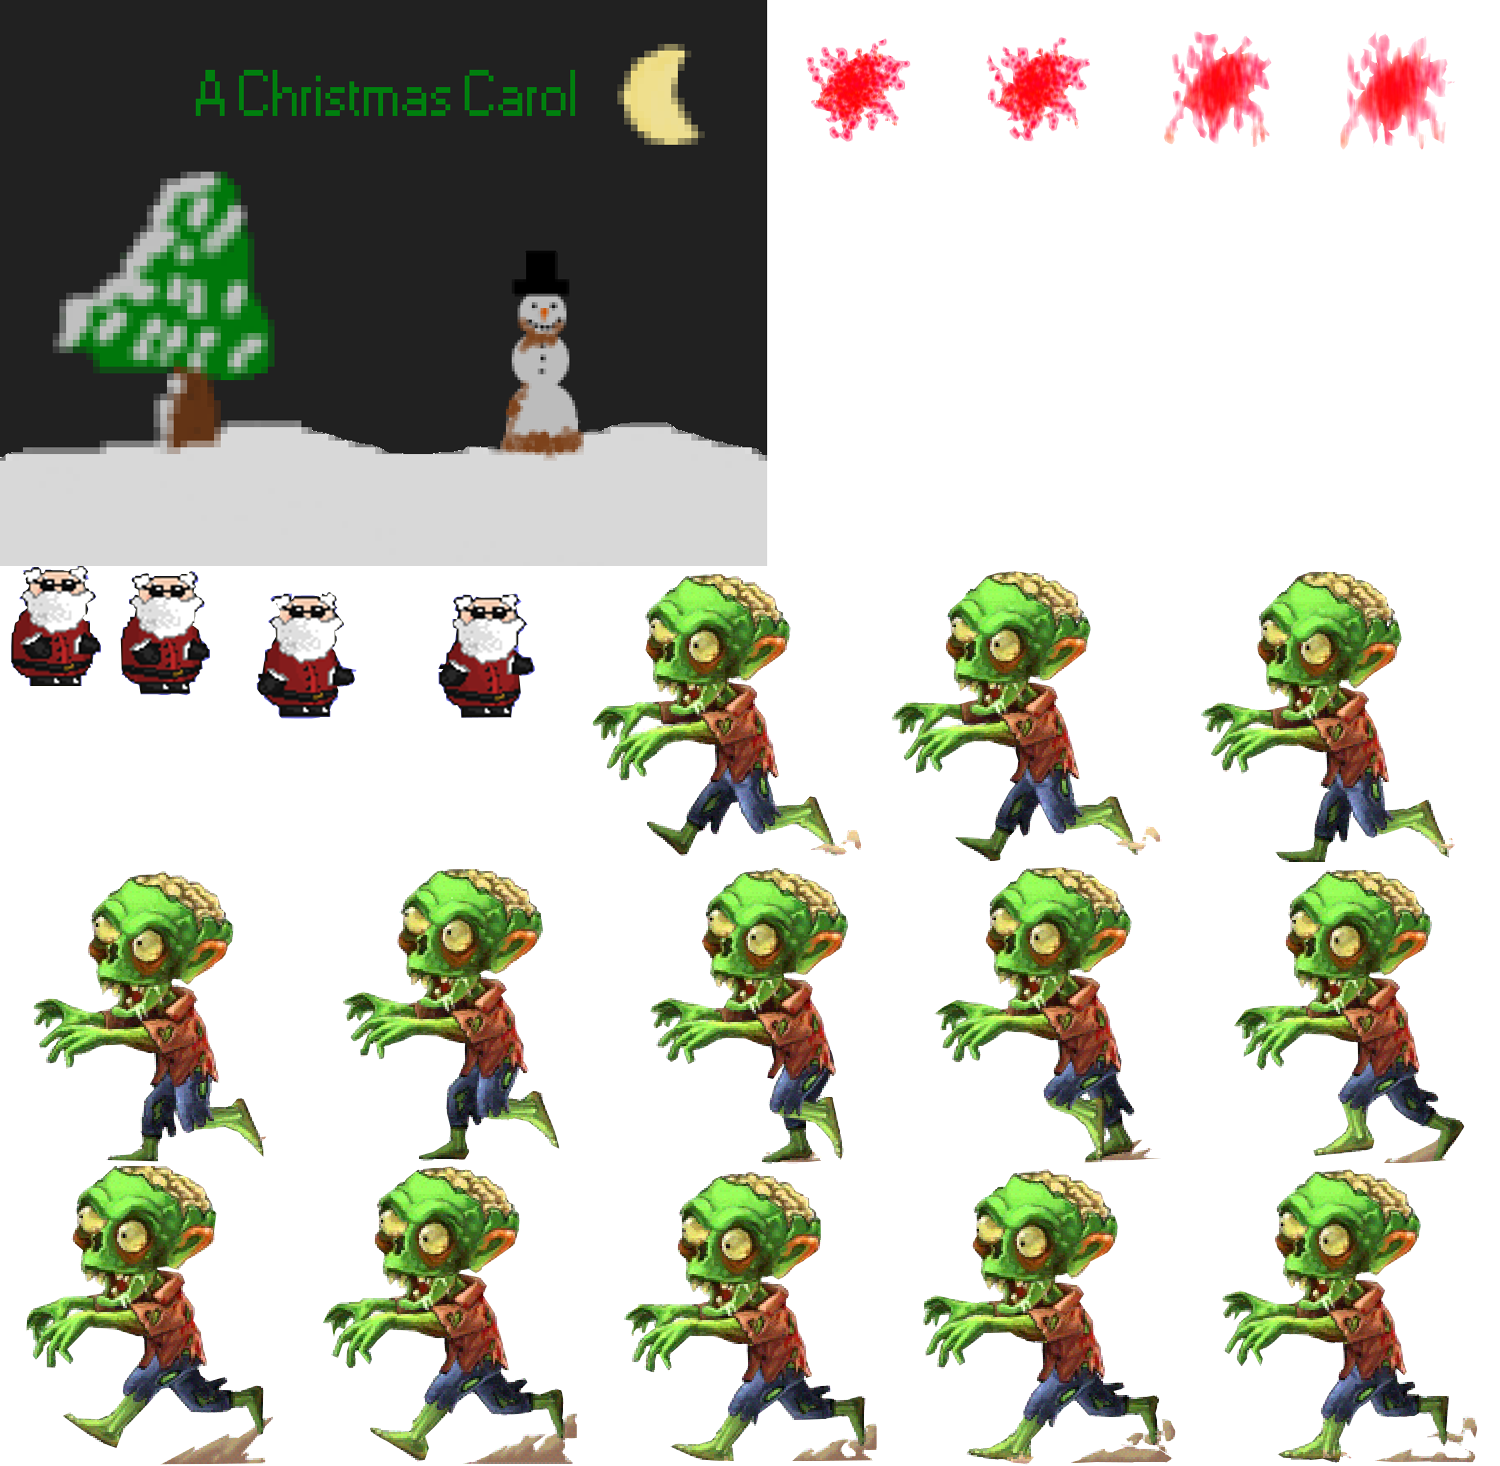
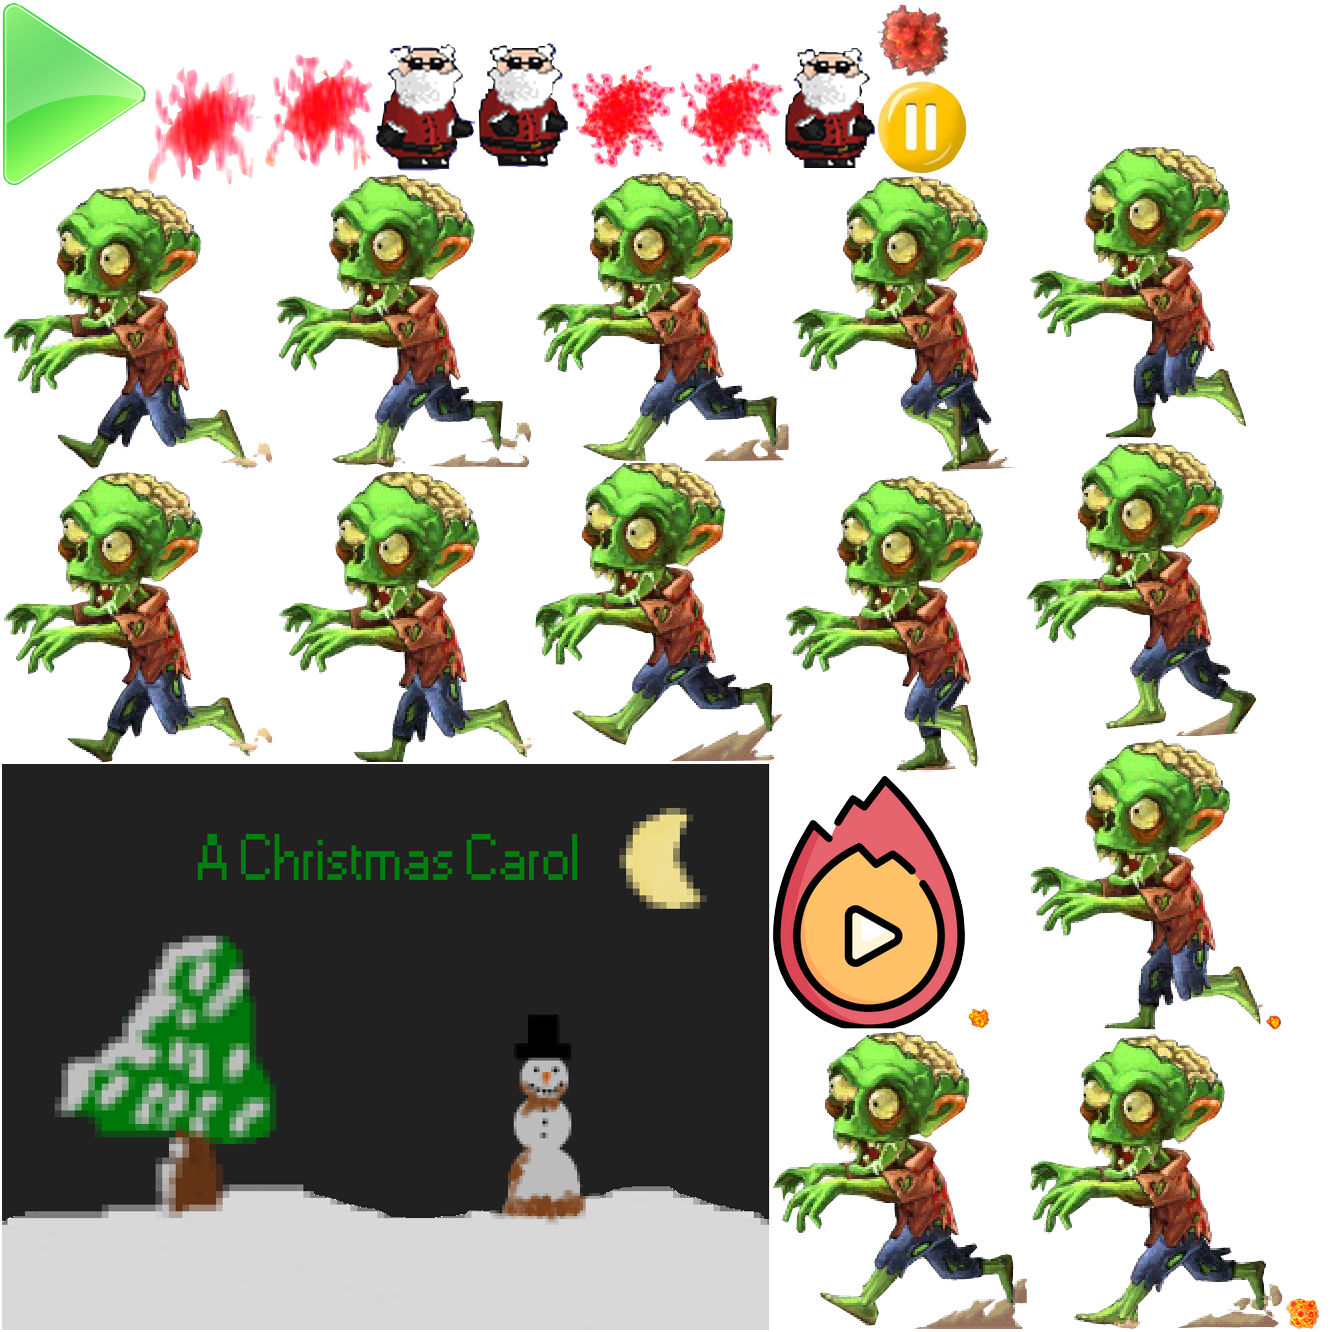
add

diff --git a/core/src/cat/xtec/ioc/helpers/AssetManager.java b/core/src/cat/xtec/ioc/helpers/AssetManager.java
@@ -7,12 +7,17 @@ import com.badlogic.gdx.files.FileHandle;
 import com.badlogic.gdx.graphics.Texture;
 import com.badlogic.gdx.graphics.g2d.Animation;
 import com.badlogic.gdx.graphics.g2d.BitmapFont;
+
 import com.badlogic.gdx.graphics.g2d.TextureRegion;
 
 public class AssetManager {
 
     // Sprite Sheet
     public static Texture sheet;
+
+    //public  static TextureAtlas atlas;
+
+    //public static Animation <Sprite> run;
 
     // CAMBIO DE VARIABLES SEGÚN EL ENUNCIADO
     // Nau i fons
@@ -46,37 +51,55 @@ public class AssetManager {
         sheet.setFilter(Texture.TextureFilter.Nearest, Texture.TextureFilter.Nearest);
 
         // Sprites de la nau
-        //spacecraft = new TextureRegion(sheet, 0, 0, 36, 15);
-        santa = new TextureRegion(sheet, 0, 566, 113, 120); // -- ok
+        santa = new TextureRegion(sheet, 785, 48, 90, 120); // -- ok
         santa.flip(false, true);
 
-        //spacecraftUp = new TextureRegion(sheet, 36, 0, 36, 15);
-        santaUp = new TextureRegion(sheet, 217, 566, 180, 180); // -- ok
+        santaUp = new TextureRegion(sheet, 375, 44, 104, 136); // -- ok
         santaUp.flip(false, true);
 
-        //spacecraftDown = new TextureRegion(sheet, 72, 0, 36, 15);
-        santaDown = new TextureRegion(sheet, 397, 566, 180, 180); // ok
+        santaDown = new TextureRegion(sheet, 478, 43, 90, 125); // ok
         santaDown.flip(false, true);
 
+        //****************  ejercicio 2 fire
 
         // BOLA DE ZOMBIES
-        fire = new TextureRegion(sheet, 768, 0, 180, 180);
+        fire = new TextureRegion(sheet, 1285, 1298, 35, 32);
         fire.flip(false, true);
+
+
+        // with atlas
+        //atlas = new TextureAtlas(Gdx.files.internal("SHEET_IMAGE.atlas"));
+
 
         // Carreguem els 16 estats de l'asteroid
         //asteroid = new TextureRegion[16];
-        zombies = new TextureRegion[4];
-        for (int i = 0; i < zombies.length; i++) {
+        zombies = new TextureRegion[8];
 
-            zombies[i] = new TextureRegion(sheet, i * 577, 566, 300, 300);
+        zombies[0] = new TextureRegion(sheet, 2, 187, 272, 283);
+        zombies[1] = new TextureRegion(sheet, 2, 472, 273, 290);
+        zombies[2] = new TextureRegion(sheet, 277, 470, 256, 292);
+        zombies[3] = new TextureRegion(sheet, 1030, 738, 234, 292);
+        zombies[4] = new TextureRegion(sheet, 1026, 147, 221, 293);
+        zombies[5] = new TextureRegion(sheet, 785, 475, 199, 298);
+        zombies[6] = new TextureRegion(sheet, 791, 176, 233, 297);
+        zombies[7] = new TextureRegion(sheet, 1026, 442, 231, 294);
+        //for (int i = 0; i < zombies.length; i++) {
 
-        }
+
+        //}
 
 
+
+        //
 
         // Creem l'animació de l'asteroid i fem que s'executi contínuament en sentit anti-horari
-        zombie = new Animation(0.08f, zombies);
-        zombie.setPlayMode(Animation.PlayMode.LOOP_PINGPONG);
+
+        for(int i = 0; i < zombies.length; i++){
+            zombie = new Animation(0.04f, zombies);
+            zombie.setPlayMode(Animation.PlayMode.LOOP);
+        }
+        //zombie = new Animation(0.04f, zombies);
+        //zombie.setPlayMode(Animation.PlayMode.LOOP);
 
         // Creem els 16 estats de l'explosió
         //explosion = new TextureRegion[4];
@@ -86,8 +109,7 @@ public class AssetManager {
         int index = 0;
         for (int i = 0; i < 2; i++) {
             for (int j = 0; j < 8; j++) {
-                //explosion[index++] = new TextureRegion(sheet, j * 64,  i * 64 + 49, 64, 64);
-                explosion[index++] = new TextureRegion(sheet, j * 768,  i * 35 + 40, 150, 150);
+                explosion[index++] = new TextureRegion(sheet, j * 678,  i * 63 + 40, 105, 105);
             }
         }
 
@@ -96,7 +118,7 @@ public class AssetManager {
 
         // Fons de pantalla
         //background = new TextureRegion(sheet1, 0, 177, 480, 135);
-        background = new TextureRegion(sheet, 0, 0, 768, 566);
+        background = new TextureRegion(sheet, 2, 764, 768, 566);
         background.flip(false, true);  // da la vuelta al fondo
 
         /******************************* Sounds *************************************/
@@ -128,7 +150,7 @@ public class AssetManager {
         sheet.dispose();
         explosionSound.dispose();
         music.dispose();
-
+        //atlas.dispose();
 
     }
 }

diff --git a/core/src/cat/xtec/ioc/helpers/InputHandler.java b/core/src/cat/xtec/ioc/helpers/InputHandler.java
@@ -59,7 +59,15 @@ public class InputHandler implements InputProcessor {
                 stageCoord = stage.screenToStageCoordinates(new Vector2(screenX, screenY));
                 Actor actorHit = stage.hit(stageCoord.x, stageCoord.y, true);
                 if (actorHit != null) {
-                    Gdx.app.log("HIT", actorHit.getName());
+
+                    switch (actorHit.getName()){
+                        case "spacecraft":
+                            break;
+                        case "fire":
+                            screen.setCurrentState(GameScreen.GameState.FIRE);
+                            break;
+                    }
+                   // Gdx.app.log("HIT", actorHit.getName());
 
                 }
                 break;

diff --git a/core/src/cat/xtec/ioc/screens/SplashScreen.java b/core/src/cat/xtec/ioc/screens/SplashScreen.java
@@ -47,7 +47,7 @@ public class SplashScreen implements Screen {
 
         // Creem l'estil de l'etiqueta i l'etiqueta
         textStyle = new Label.LabelStyle(AssetManager.font, null);
-        textLbl = new Label("SpaceRace", textStyle);
+        textLbl = new Label("Zombie's Christmas Carol", textStyle);
 
         // Creem el contenidor necessari per aplicar-li les accions
         Container container = new Container(textLbl);
